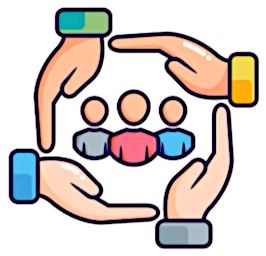
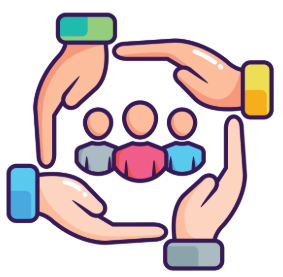
Replaced calls to Html.PartialAsync() with tag helpers in the Employees create, edit, and index pages. We also replaced Component.InvokeAsync() call in DepartmentEmployees.cshtml with the vc tag helper.

Changed region(s): [[0.0, 0.0, 0.9925, 1.0], [0.6917, 0.6875, 0.7519, 0.75]]

diff --git a/EmployeeManagementSystem/WebApp/Program.cs b/EmployeeManagementSystem/WebApp/Program.cs
@@ -13,6 +13,8 @@ builder.Services.AddRazorPages();
 var app = builder.Build();
 
 // This middleware allows us to use static files in the wwwroot folder.
+// Another newer middleware we could use here instead is app.MapStaticFiles(). This one enables cache and adding version number to the query string automatically.
+// So it's a bit easier than doing it explicitly like we did by adding the asp-append-version attribute in Views/Home/Index.cshtml.
 app.UseStaticFiles(new StaticFileOptions 
 {
 	OnPrepareResponse = ctx =>
